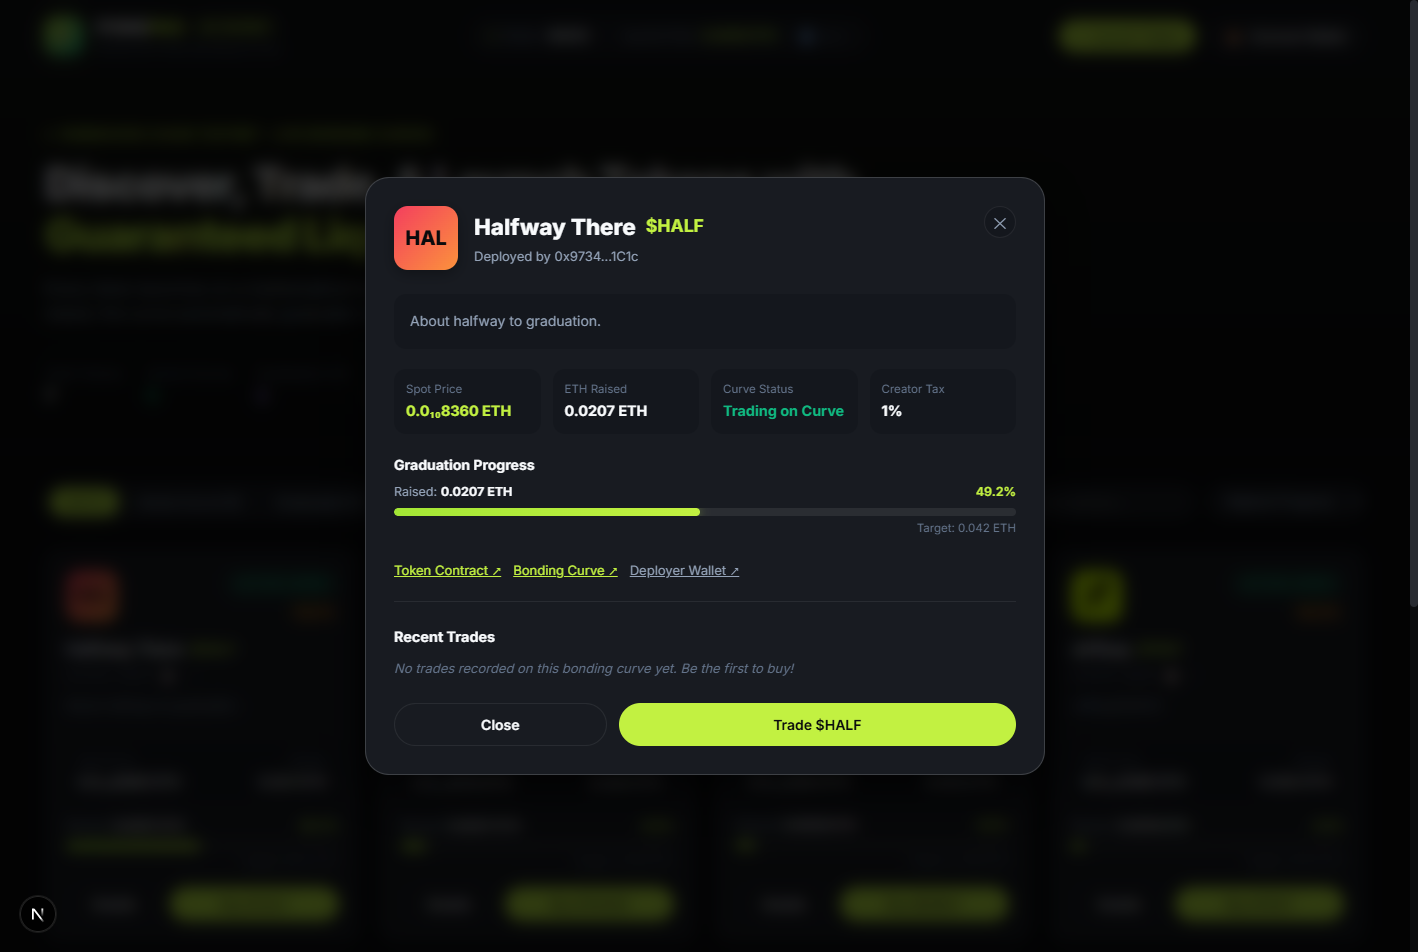
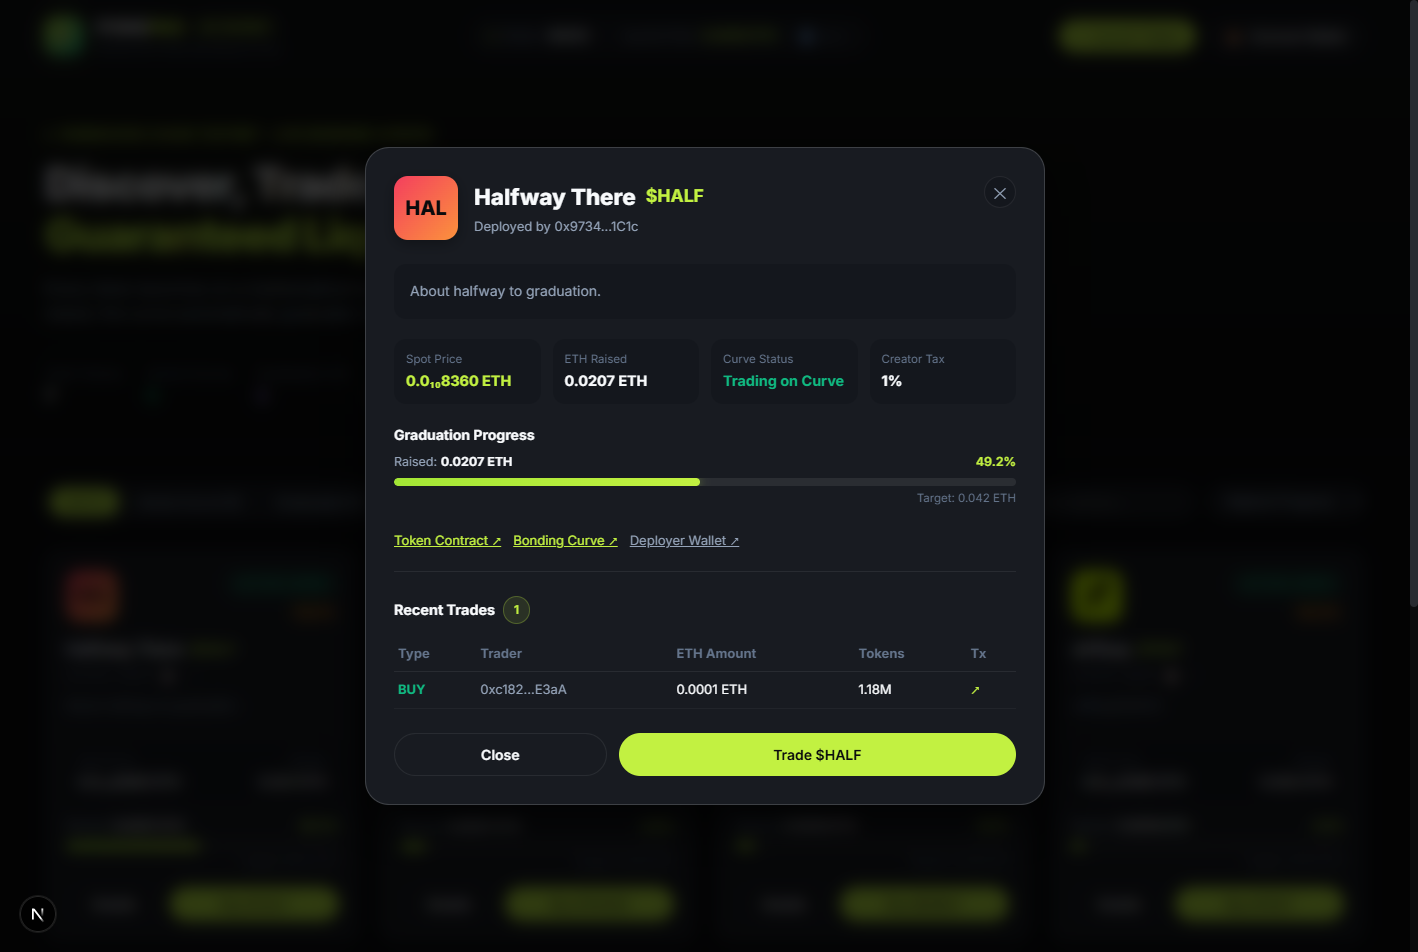
fix: enforce safe block window for trade history query and update modal screenshots

diff --git a/launchpad/src/components/Trade/TokenDetailsModal.tsx b/launchpad/src/components/Trade/TokenDetailsModal.tsx
@@ -49,7 +49,12 @@ export function TokenDetailsModal({
         });
 
         const currentBlock = await client.getBlockNumber();
-        const fromBlock = token.blockNumber > 0n ? token.blockNumber : currentBlock - 45000n;
+        // Public RPC limits to 50,000 blocks per eth_getLogs
+        const safeWindow = 48000n;
+        const fromBlock =
+          currentBlock > safeWindow
+            ? (token.blockNumber > currentBlock - safeWindow ? token.blockNumber : currentBlock - safeWindow)
+            : 0n;
 
         // Query Buy logs
         const buyLogs = await client.getLogs({
